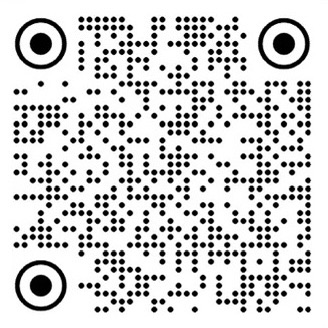
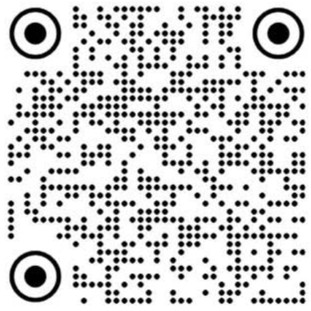
update-l8

diff --git a/lemon8.html b/lemon8.html
@@ -52,7 +52,7 @@
                 </div>
             </div>
             <div class="flex flex-col items-center text-center">
-                <a href="https://s.lemon8-app.com/s/GgbvZsxxUr" target="_blank"
+                <a href="https://s.lemon8-app.com/s/GgjmkZMdff" target="_blank"
                     rel="noopener noreferrer"
                     class="border border-white/20 text-center py-3 px-3 rounded-full hover:border-orange-400 transition">
                     @iam_kaminaxv
@@ -87,7 +87,7 @@
                     </div>
                 </div>
                 <div class="p-10">
-                    <a href="https://s.lemon8-app.com/s/GgZbkskxUr" target="_blank"
+                    <a href="https://s.lemon8-app.com/s/GgTZSRMdff" target="_blank"
                         rel="noopener noreferrer"
                         class="border border-white/20 text-center py-3 px-3 rounded-full hover:border-orange-400 transition">
                         ชมผลงาน &nbsp; →
@@ -114,7 +114,7 @@
                     </div>
                 </div>
                 <div class="p-10">
-                    <a href="https://s.lemon8-app.com/s/GgZFNpbdbr" target="_blank"
+                    <a href="https://s.lemon8-app.com/s/GgbrsmbZef" target="_blank"
                         rel="noopener noreferrer"
                         class="border border-white/20 text-center py-3 px-3 rounded-full hover:border-orange-400 transition">
                         ชมผลงาน &nbsp; →
@@ -140,7 +140,7 @@
                     </div>
                 </div>
                 <div class="p-10">
-                    <a href="https://s.lemon8-app.com/s/Ggkpppbdbr" target="_blank"
+                    <a href="https://s.lemon8-app.com/s/GgbxcNvZef" target="_blank"
                         rel="noopener noreferrer"
                         class="border border-white/20 text-center py-3 px-3 rounded-full hover:border-orange-400 transition">
                         ชมผลงาน &nbsp; →

diff --git a/component/portfolio.html b/component/portfolio.html
@@ -53,7 +53,7 @@
                         class="bg-orange-400 text-black text-center py-3 rounded-full font-semibold hover:scale-105 transition">
                         ดูบทความตัวอย่าง
                     </a>
-                    <a href="https://s.lemon8-app.com/s/GgbvZsxxUr" target="_blank" rel="noopener noreferrer"
+                    <a href="https://s.lemon8-app.com/s/GgjmkZMdff" target="_blank" rel="noopener noreferrer"
                         class="border border-white/20 text-center py-3 rounded-full hover:border-orange-400 transition">
                         ไปที่ Lemon8
                     </a>
